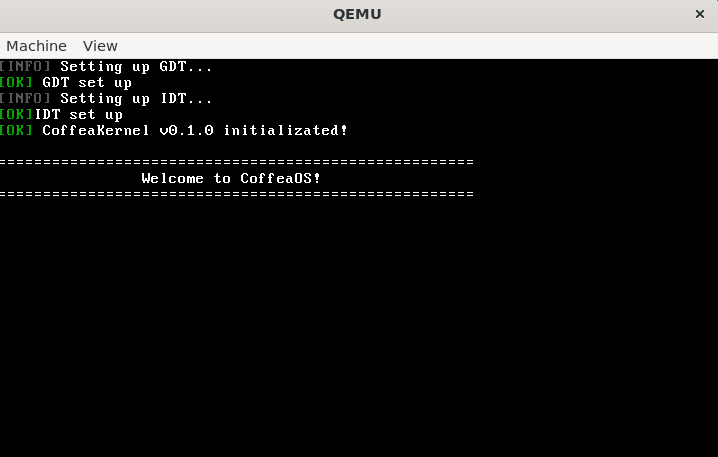
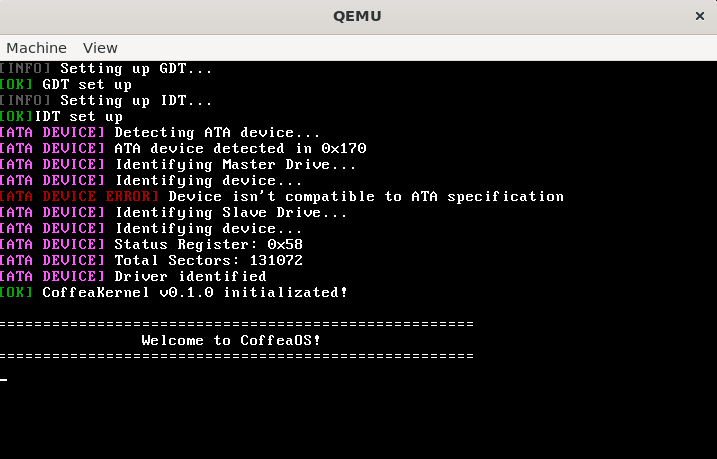
Atualiza readme

diff --git a/readme.md b/readme.md
@@ -7,7 +7,7 @@ CoffeaOS é um projeto de hobby totalmente voltado a estudo e implementação de
 A ideia surgiu da curiosidade em entender: comunicação software/hardware em baixo nível, programação em um ambiente com zero dependências externas, algoritmos triviais para gerenciamento de memória, processos, user mode e etc.
 
 ## Screenshot
-![CoffeaOS booting](docs/coffeaos_boot.png)
+![CoffeaOS Booting](docs/coffeaos_boot.png)
 
 ![CoffeaOS blue screen of death](docs/coffeaos_panic.png)
 
@@ -20,6 +20,7 @@ A ideia surgiu da curiosidade em entender: comunicação software/hardware em ba
     - UART 16550 para comunicação serial
     - PIC para interrupções 
     - Teclado PS/2 básico
+    - Driver ATA PIO para comunicação com disco rigído (WIP)
 
 ## Como rodar?
 O desenvolvimento e testes estão sendo realizados em um ambiente Linux, para ser mais específico em uma distro Ubuntu.
@@ -38,6 +39,7 @@ make run
 ## Referências
 - [The Little OS Book](https://littleosbook.github.io)
 - [OSDev Wiki](https://wiki.osdev.org)
+- [ATA PIO OSDev](https://wiki.osdev.org/ATA_PIO_Mode)
 - [Gitbook Assembly x86 - Mente Binária](https://mentebinaria.gitbook.io/assembly)
 - [Manual Intel x86-64 e IA-32 (importante para segmentação GDT)](https://www.intel.com/content/www/us/en/developer/articles/technical/intel-sdm.html)
 